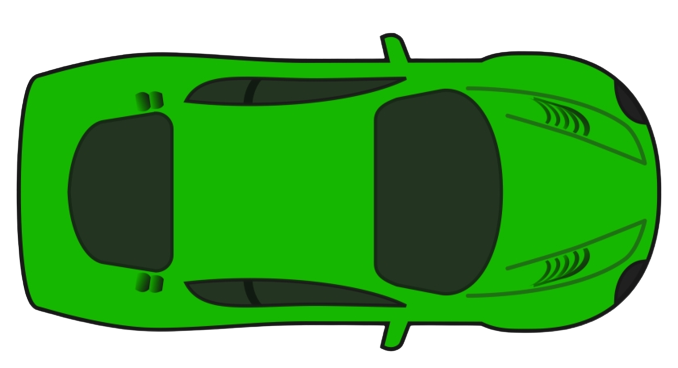
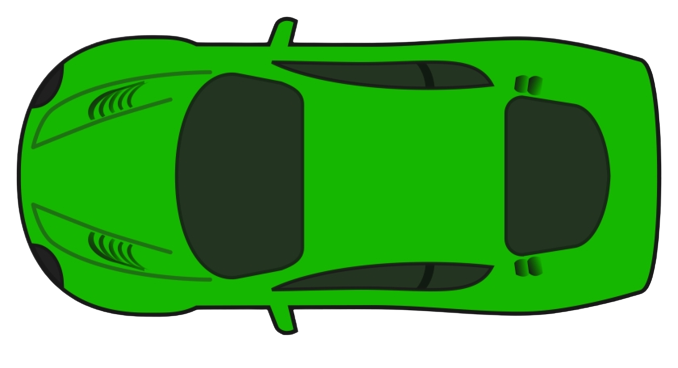
rotation of the car

diff --git a/env_raceAI/race.py b/env_raceAI/race.py
@@ -1,38 +1,85 @@
+#-----------------------------------------------------------------------------
+#import area
+
 import pygame
 import time
 import math
-from utils import scale_image
+from utils import scale_image, car_rotate_center
+
+#-----------------------------------------------------------------------------
+#image loading
 
 TRACK = scale_image(pygame.image.load("env_raceAI/imgs/track_1.png"),1.5)
 BORDER = scale_image(pygame.image.load("env_raceAI/imgs/border_1.png"),1.5)
 GRASS = scale_image(pygame.image.load("env_raceAI/imgs/grass.jpg"),500*1.5/311)
 FINISH = pygame.image.load("env_raceAI/imgs/finish.png")
 CAR_GREEN = scale_image(pygame.image.load("env_raceAI/imgs/car_green.png"),0.04)
-CAR_PURPLE = pygame.image.load("env_raceAI/imgs/car_purple.png")
+CAR_PURPLE = pygame.image.load("env_raceAI/imgs/car_purple.png") 
+
+#-----------------------------------------------------------------------------
 
 WIDTH, HEIGHT = TRACK.get_width(), TRACK.get_height()
 WIN = pygame.display.set_mode((WIDTH, HEIGHT))
 pygame.display.set_caption("Racing Game!")
 
-def draw(win, imgs):
+#class of the car
+class Car:
+    #function ton initialize all parameters
+    def __init__(self, max_vel, rot_vel):
+        self.img = self.IMG
+        self.max_vel = max_vel
+        self.vel = 0
+        self.rot_vel = rot_vel
+        self.angle = 0
+        self.x, self.y = self.START_POS
+
+    #function to rotate the car 
+    def rotate(self, left=False, right=False):
+        if left:
+            self.angle += self.rot_vel
+        elif right:
+            self.angle -= self.rot_vel
+
+    #function to call the car_rotate_center function with the arguments of the car class
+    def draw(self, win):
+        car_rotate_center(win, self.img, (self.x, self.y), self.angle)
+
+#class of the player's car
+class PlayerCar(Car):
+    IMG = CAR_GREEN
+    START_POS = (300, 585)
+
+
+def draw(win, imgs, plr_car):
     for img, pos in imgs:
         win.blit(img, pos)
+
+    player_car.draw(win)    #draw the player's car after rotating
+    pygame.display.update()
 
 
 run = True
 clock = pygame.time.Clock()
 imgs = [(GRASS, (0, 0)), (TRACK, (0, 0))]
+player_car = PlayerCar(4, 4)
 
 while run:
-    clock.tick(60) #FPS
+    clock.tick(60)  #FPS
 
-    draw(WIN,imgs)
-
-    pygame.display.update()
+    draw(WIN,imgs, player_car)  #function to display a large number of images 
 
     for event in pygame.event.get():
         if event.type == pygame.QUIT:
             run = False
             break
     
+    
+    keys = pygame.key.get_pressed() #get the key of the keyboard pressed
+
+    #action in function of wich key was pressed
+    if keys[pygame.K_q] or keys[pygame.K_LEFT]:
+        player_car.rotate(left=True)
+    elif keys[pygame.K_d] or keys[pygame.K_RIGHT]:
+        player_car.rotate(right=True)
+
 pygame.quit()

diff --git a/env_raceAI/utils.py b/env_raceAI/utils.py
@@ -1,5 +1,12 @@
 import pygame 
 
+#function to reajust the size of the images
 def scale_image(img,factor):
     size = round(img.get_width()*factor), round(img.get_height()*factor)
     return pygame.transform.scale(img,size)
+
+#function that rotates the image according to its center
+def car_rotate_center(win, img, top_left, angle):
+    rotated_img = pygame.transform.rotate(img, angle)                               #rotate around the top-left 
+    new_rect = rotated_img.get_rect(center=img.get_rect(topleft=top_left).center)   #rotate around the center according to the rotation of the top-left
+    win.blit(rotated_img, new_rect.topleft)                                         #display the car with the rotation
